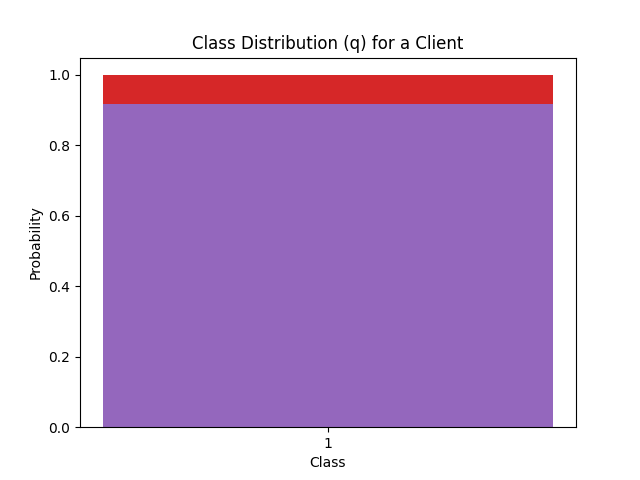
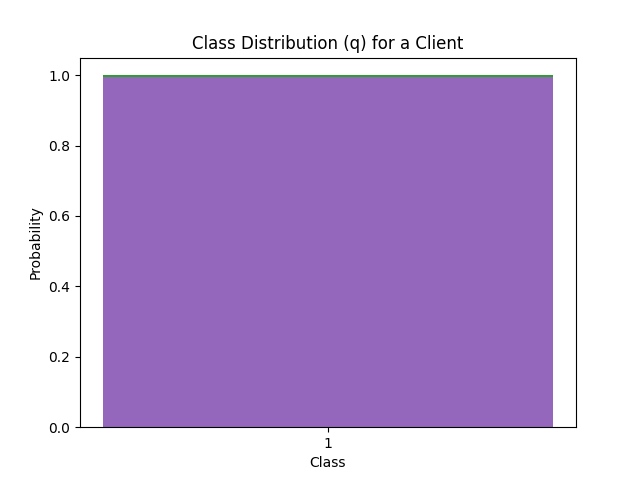
dsa

Changed region(s): [[0.1562, 0.1562, 0.875, 0.2188]]

diff --git a/fl_testbed/version2/client/dirichelet_split.py b/fl_testbed/version2/client/dirichelet_split.py
@@ -21,6 +21,10 @@ import argparse
 import numpy as np
 from scipy.stats import dirichlet
 import matplotlib.pyplot as plt
+from collections import Counter
+
+
+np.random.seed(2)
 
 
 
@@ -175,16 +179,13 @@ class DataSplit:
 
 
 
-        # Example usage and visualization:
+
+        # Example usage:
         N = 5  # Number of classes
-        alpha = 0.2  # Concentration parameter
+        alpha = 0.2  # Concentration parameter (a scalar)
         num_clients = 5
-        num_samples_per_client = 5
-        TOTAL_N_DATAPOINTS=1000
-
-
-
-
+        num_samples_per_client = 100000000 #UYSE A HIGH NUMBER FOR USE ALL
+        p = [0.2, 0.2, 0.2, 0.2, 0.2]  # Prior class distribution (1-dimensional) STARTS WITH SAME NUMBER OF DATAPOITNS PER PARTITION
 
 
 
@@ -192,61 +193,164 @@ class DataSplit:
         # os.chdir(root_path+DATA_FOLDER)
         print(os.getcwd)
 
-        def generate_non_identical_clients(N, alpha, num_clients, num_samples_per_client, p):
+        def split_dataframe_to_non_identical_clients(df, N, alpha, num_clients, num_samples_per_client, p, output_dir):
+            if alpha <= 0:
+                raise ValueError("Alpha must be a positive number.")
+            if len(p) != N or not all(0 <= qi <= 1 for qi in p):
+                raise ValueError("The prior class distribution 'p' must be a 1-dimensional array with values between 0 and 1.")
+            
             clients = []
+            # df = df.sample(frac=1).reset_index(drop=True)  # Shuffle the DataFrame
+            
 
-            for _ in range(num_clients):
-                q = dirichlet.rvs(alpha * np.array(p))
-                print(q)
+            for i in p:
+
+                #THIS SECTION IS FOR CREATING THE EUQLA DATA PARTITIIONS
+                print(i)
+                # sample_df = self.df.groupby(['y'][0]).apply(lambda x: x.sample(frac=i))
+
+                def sample_group(group, frac):
+                    return group.sample(frac=frac)
+
+                # Group the DataFrame by a custom key, e.g., a constant, since we want to sample without grouping
+                grouped = self.df.groupby(lambda x: 0)
+
+                # Use apply to sample rows within each group
+                sampled_df = grouped.apply(sample_group, frac=i)
+
+                print(sampled_df.y.value_counts())
+                # print(sampled_df.X.tail())
+
+
+                # input()
+
+
+
+
+
+
+
+
+
+                #THIS SEEMS TO BE GENERATING NUMBERS RAMDOMLY AND NOT ATAKING FORM THE DATA!!
+                
+                num_samples = min(num_samples_per_client, len(df))
+                data = df.iloc[:num_samples, :].copy()
+                df = df.iloc[num_samples:, :]
+
+                q = dirichlet.rvs([alpha] * N)  # Ensure alpha is a scalar
                 q = np.maximum(q, 0)
                 q /= q.sum()
 
-                data = []
-                for _ in range(num_samples_per_client):
-                    # Generate class labels following a categorical distribution (q)
-                    sample = np.random.choice(N, p=np.squeeze(q))
-                    data.append(sample)
+                split=[np.random.choice(N, p=np.squeeze(q),replace=False) for _ in range(num_samples)]
+                print(split)
 
-                client_info = {
-                    'q': q,
-                    'data': data
-                }
+                # data['label'] = [np.random.choice(N, p=np.squeeze(q)) for _ in range(num_samples)]
+                # client_info = {
+                #     'q': q,
+                #     'data': data
+                # }
+
+                value_counts = Counter(split)
+
+                # Print the value counts
+                for value, count in value_counts.items():
+                    print(f"{value}: {count}")
+
+                    
+                break
                 clients.append(client_info)
 
             return clients
 
-        def plot_class_distribution(client,name):
+        def plot_class_distribution_and_save(client, output_dir, client_index):
             q = client['q']
             plt.bar(range(len(q)), np.squeeze(q))
             plt.xticks(range(len(q)), range(1, len(q) + 1))
             plt.xlabel('Class')
             plt.ylabel('Probability')
-            plt.title('Class Distribution (q) for a Client')
-            plt.savefig("Client: " + str(name)+ "_("+ str(self.alpha)+")_("+str(self.beta) +").png" )
+            plt.title('Class Distribution (q) for Client {}'.format(client_index))
+            
+            # Save the plot as an image file
+            output_file = os.path.join(output_dir, 'client_{}_class_distribution.png'.format(client_index))
+            plt.savefig(output_file)
+            plt.close()  # Close the plot to avoid displaying it
+
+
+
+
+
+        # print(np.ones(5)*TOTAL_N_DATAPOINTS)
+        # # Another useful fact about the Dirichlet distribution is that you naturally get it, if you generate a Gamma-distributed set of random variables and then divide them by their sum.
+        # p=np.random.dirichlet(np.ones(num_clients)*1000.,size=1).reshape((-1,))
+        # print(p) 
+        print("SPLITS!!!")
+
+
+
+
+        # data = {'x': np.random.randn(500), 'y': np.random.randn(500)}
+        # df = pd.DataFrame(data)
 
 
 
 
 
 
+        # Output directory for saving plots
+        output_directory = "client_plots"
+        os.makedirs(output_directory, exist_ok=True)
+
+        non_identical_clients = split_dataframe_to_non_identical_clients(self.df, N, alpha, num_clients, num_samples_per_client, p, output_directory)
+        print(non_identical_clients)
+
+        # Generate and save plots for each client
+        # for i, client in enumerate(non_identical_clients):
+        #     print(f"Client {i + 1} Class Distribution (q):")
+        #     print(client['q'])
+        #     plot_class_distribution_and_save(client, output_directory, i)
+
+        # print("Plots have been saved to the '{}' directory.".format(output_directory))
 
 
-        print(np.ones(5)*TOTAL_N_DATAPOINTS)
-        # Another useful fact about the Dirichlet distribution is that you naturally get it, if you generate a Gamma-distributed set of random variables and then divide them by their sum.
-        p=np.random.dirichlet(np.ones(num_clients)*1000.,size=1).reshape((-1,))
-        # st.dirichlet.pdf(list_of_xs.T, alpha)
-        print(p) #TO BE USED FOR THE REMAINIG PART OF DATA NOW EVERYTHING IS SPLITTED PROPERLY
-        # print(p.dtype)
+        # print(self.df.head())
+
+        # for _split in p:
+        #     # print(_split)
+        #     # sample_df = self.df.groupby(['y'][0]).apply(lambda x: x.sample(frac=_split))
+            
+
+        #     def sample_group(group, frac):
+        #         return group.sample(frac=frac)
 
 
-        # p = [0.8, 0.2, 0.2, 0.2, 0.2]  # Prior class distribution
+        #     # Group the DataFrame by a custom key, e.g., a constant, since we want to sample without grouping
+        #     grouped = self.df.groupby(lambda x: 0)
 
-        non_identical_clients = generate_non_identical_clients(N, alpha, num_clients, num_samples_per_client, p)
+        #     # Use apply to sample rows within each group
+        #     sampled_df = grouped.apply(sample_group, frac=_split)
 
-        # Visualize the class distribution for the first client
-        for i, client in enumerate(non_identical_clients):
-            print(f"Client {i + 1} Class Distribution (q):")
-            plot_class_distribution(client,i)
+        #     print(sampled_df.y.value_counts())
+        #     print(sampled_df.X.tail())
+
+
+
+
+
+            # st.dirichlet.pdf(list_of_xs.T, alpha)
+            #TO BE USED FOR THE REMAINIG PART OF DATA NOW EVERYTHING IS SPLITTED PROPERLY
+            # print(p.dtype)
+
+
+            # p = [0.8, 0.2, 0.2, 0.2, 0.2]  # Prior class distribution
+
+        # non_identical_clients = generate_non_identical_clients(N, alpha, num_clients, num_samples_per_client, p)
+        # print(non_identical_clients)
+
+            # Visualize the class distribution for the first client
+            # for i, client in enumerate(non_identical_clients):
+            #     print(f"Client {i + 1} Class Distribution (q):")
+            #     plot_class_distribution(client,i)
 
 
 

diff --git a/fl_testbed/version2/client/test.py b/fl_testbed/version2/client/test.py
@@ -1,0 +1,77 @@
+""".Xauthority
+
+python3 fl_testbed/version2/client/test.py
+
+"""
+
+
+import pandas as pd
+import numpy as np
+from scipy.stats import dirichlet
+import matplotlib.pyplot as plt
+import os
+
+def split_dataframe_to_non_identical_clients(df, N, alpha, num_clients, num_samples_per_client, p, output_dir):
+    if alpha <= 0:
+        raise ValueError("Alpha must be a positive number.")
+    if len(p) != N or not all(0 <= qi <= 1 for qi in p):
+        raise ValueError("The prior class distribution 'p' must be a 1-dimensional array with values between 0 and 1.")
+    
+    clients = []
+    df = df.sample(frac=1).reset_index(drop=True)  # Shuffle the DataFrame
+
+    for i in range(num_clients):
+        num_samples = min(num_samples_per_client, len(df))
+        data = df.iloc[:num_samples, :].copy()
+        df = df.iloc[num_samples:, :]
+
+        q = dirichlet.rvs([alpha] * N)  # Ensure alpha is a scalar
+        q = np.maximum(q, 0)
+        q /= q.sum()
+
+        data['label'] = [np.random.choice(N, p=np.squeeze(q)) for _ in range(num_samples)]
+        client_info = {
+            'q': q,
+            'data': data
+        }
+        clients.append(client_info)
+
+    return clients
+
+def plot_class_distribution_and_save(client, output_dir, client_index):
+    q = client['q']
+    plt.bar(range(len(q)), np.squeeze(q))
+    plt.xticks(range(len(q)), range(1, len(q) + 1))
+    plt.xlabel('Class')
+    plt.ylabel('Probability')
+    plt.title('Class Distribution (q) for Client {}'.format(client_index))
+    
+    # Save the plot as an image file
+    output_file = os.path.join(output_dir, 'client_{}_class_distribution.png'.format(client_index))
+    plt.savefig(output_file)
+    plt.close()  # Close the plot to avoid displaying it
+
+# Example usage:
+N = 5  # Number of classes
+alpha = 0.001  # Concentration parameter (a scalar)
+num_clients = 5
+num_samples_per_client = 100
+p = [0.2, 0.2, 0.2, 0.2, 0.2]  # Prior class distribution (1-dimensional)
+
+# Create a sample DataFrame with 'x' and 'y' columns
+data = {'x': np.random.randn(500), 'y': np.random.randn(500)}
+df = pd.DataFrame(data)
+
+# Output directory for saving plots
+output_directory = "client_plots"
+os.makedirs(output_directory, exist_ok=True)
+
+non_identical_clients = split_dataframe_to_non_identical_clients(df, N, alpha, num_clients, num_samples_per_client, p, output_directory)
+
+# Generate and save plots for each client
+for i, client in enumerate(non_identical_clients):
+    print(f"Client {i + 1} Class Distribution (q):")
+    print(client['q'])
+    plot_class_distribution_and_save(client, output_directory, i)
+
+print("Plots have been saved to the '{}' directory.".format(output_directory))
